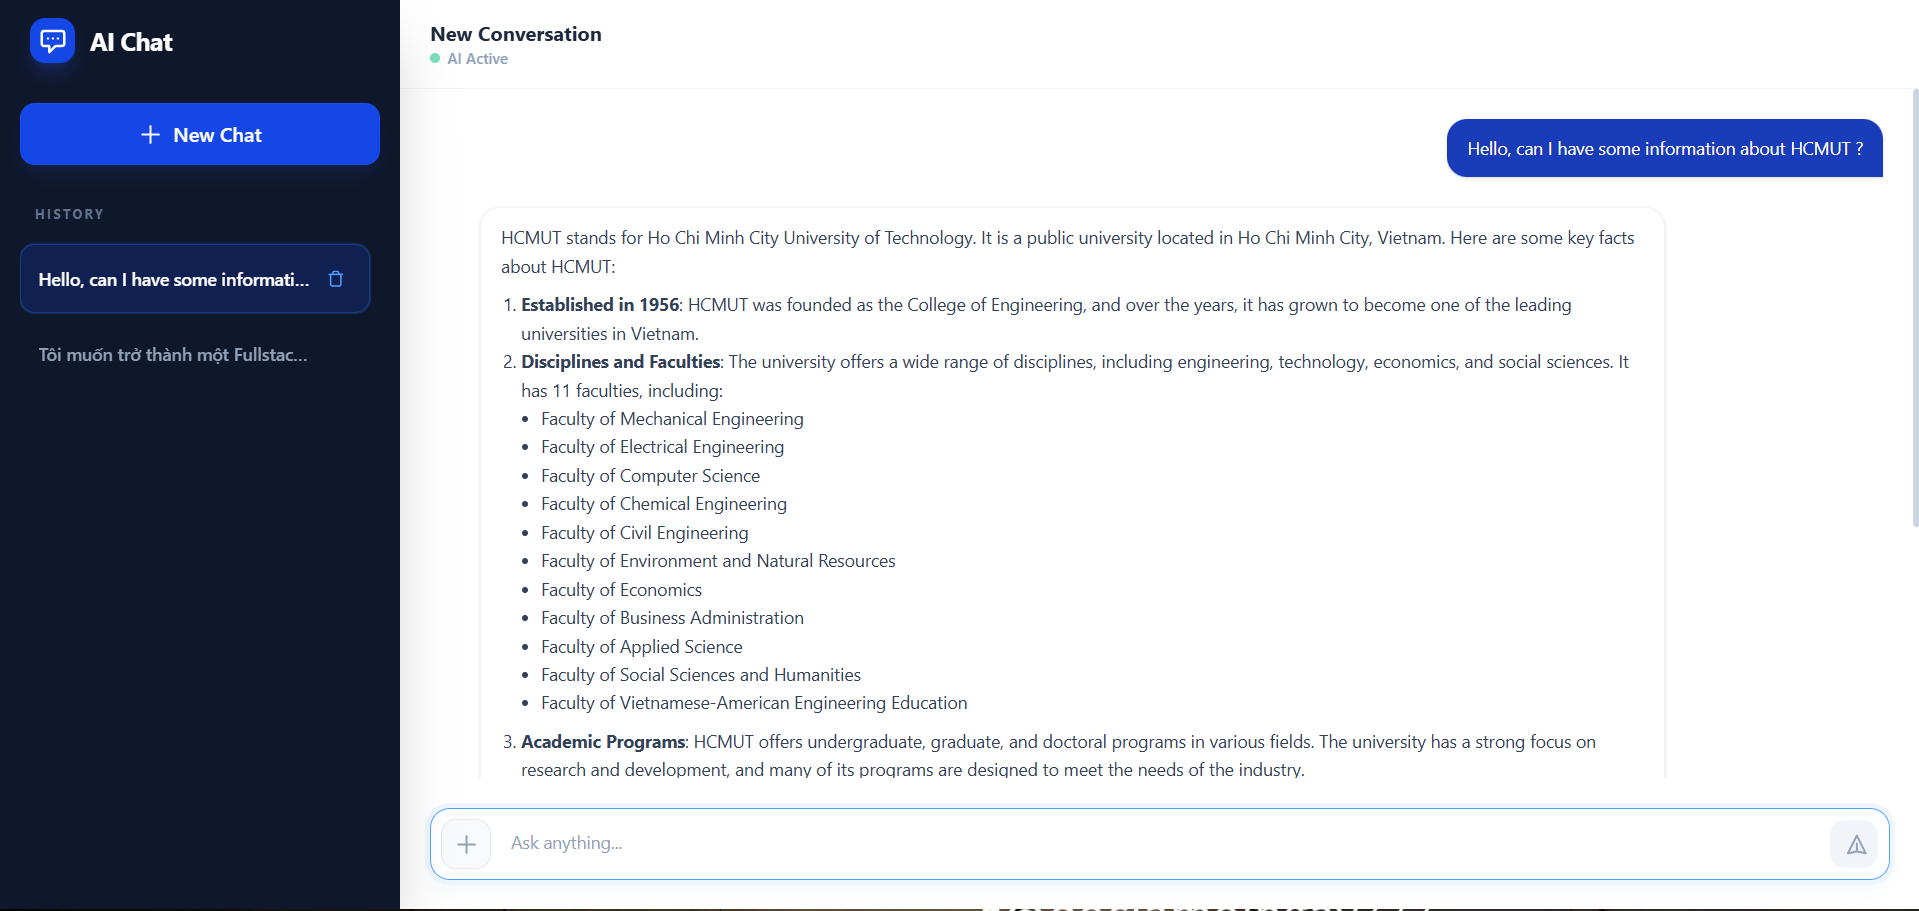
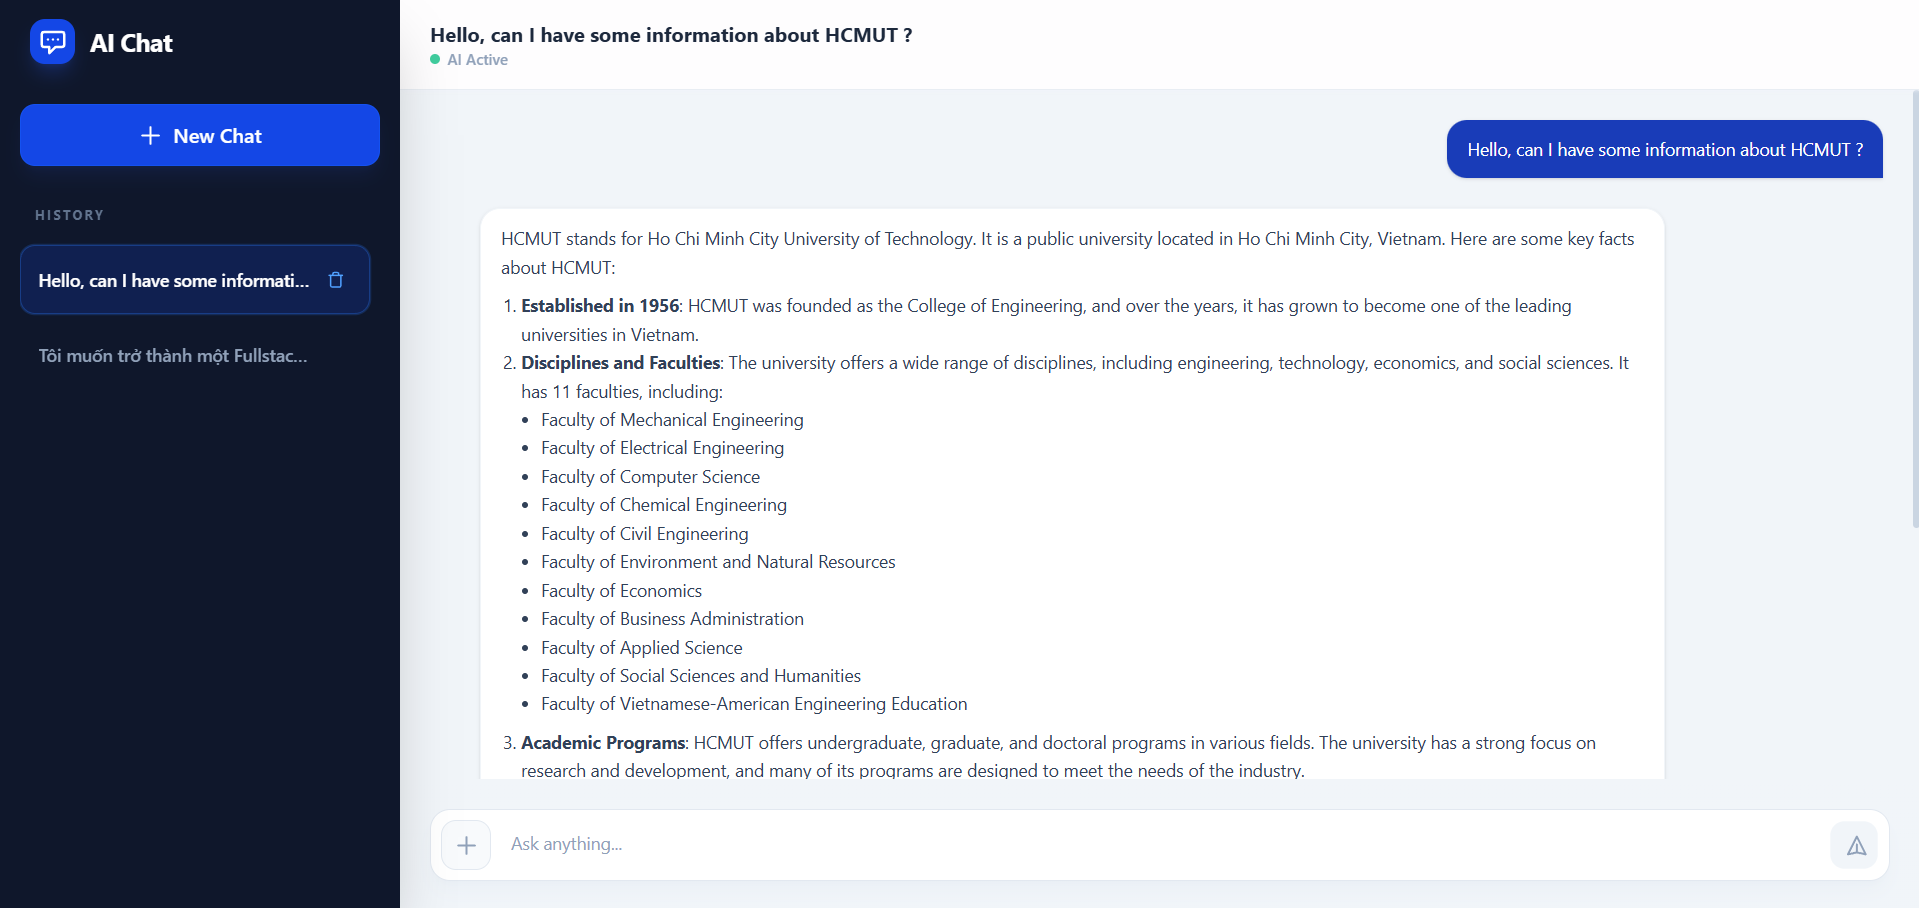
update: - fix background color of ChatWindow - remember the conversation from one session

diff --git a/frontend/index.html b/frontend/index.html
@@ -1,13 +1,16 @@
 <!doctype html>
 <html lang="en">
-  <head>
-    <meta charset="UTF-8" />
-    <link rel="icon" type="image/svg+xml" href="/favicon.svg" />
-    <meta name="viewport" content="width=device-width, initial-scale=1.0" />
-    <title>frontend</title>
-  </head>
-  <body>
-    <div id="root"></div>
-    <script type="module" src="/src/main.jsx"></script>
-  </body>
+
+<head>
+  <meta charset="UTF-8" />
+  <link rel="icon" type="image/svg+xml" href="/favicon.svg" />
+  <meta name="viewport" content="width=device-width, initial-scale=1.0" />
+  <title>AI Chat</title>
+</head>
+
+<body>
+  <div id="root"></div>
+  <script type="module" src="/src/main.jsx"></script>
+</body>
+
 </html>

diff --git a/frontend/src/pages/ChatPage.jsx b/frontend/src/pages/ChatPage.jsx
@@ -20,8 +20,18 @@ const ChatPage = () => {
     const fetchConversations = async () => {
         try {
             const response = await api.get("/conversations");
-            console.log(response.data);
-            setConversations(response.data.data);
+            // console.log(response.data);
+            const convs = response.data.data;
+            setConversations(convs);
+
+            const savedId = sessionStorage.getItem("activeConversationId");
+            if (savedId && convs.length > 0) {
+                const activeConv = convs.find(c => c._id === savedId);
+                if (activeConv) {
+                    setSelectedConversation(activeConv);
+                    fetchMessages(activeConv._id);
+                }
+            }
         } catch (error) {
             console.error(error);
         }
@@ -58,6 +68,7 @@ const ChatPage = () => {
             setSelectedConversation(
                 newConversation
             );
+            sessionStorage.setItem("activeConversationId", newConversation._id);
 
             setMessages([]);
             setSidebarOpen(false);
@@ -70,6 +81,7 @@ const ChatPage = () => {
         conversation
     ) => {
         setSelectedConversation(conversation);
+        sessionStorage.setItem("activeConversationId", conversation._id);
 
         fetchMessages(conversation._id);
         setSidebarOpen(false);
@@ -132,6 +144,7 @@ const ChatPage = () => {
 
             if (selectedConversation?._id === id) {
                 setSelectedConversation(null);
+                sessionStorage.removeItem("activeConversationId");
                 setMessages([]);
             }
             toast.success("Conversation deleted successfully");

diff --git a/frontend/src/components/ChatWindow.jsx b/frontend/src/components/ChatWindow.jsx
@@ -36,8 +36,8 @@ const ChatWindow = ({
     }
 
     return (
-        <div className="flex flex-col h-full bg-white">
-            <header className="px-4 sm:px-6 py-4 border-b border-slate-100 flex items-center gap-3 bg-white/80 backdrop-blur-md sticky top-0 z-10">
+        <div className="flex flex-col h-full bg-slate-100">
+            <header className="px-4 sm:px-6 py-4 border-b border-slate-200/80 flex items-center gap-3 bg-white/90 backdrop-blur-md sticky top-0 z-10 shadow-sm shadow-slate-100/50">
                 {/* Mobile menu button */}
                 <button
                     onClick={onOpenSidebar}
@@ -102,7 +102,7 @@ const ChatWindow = ({
                 <div ref={bottomRef} className="h-4" />
             </div>
 
-            <div className="p-4 sm:p-6 bg-gradient-to-t from-white via-white to-transparent">
+            <div className="p-4 sm:p-6 bg-gradient-to-t from-slate-100 via-slate-100 to-transparent">
                 <ChatInput
                     onSendMessage={onSendMessage}
                     selectedConversationId={selectedConversation?._id}